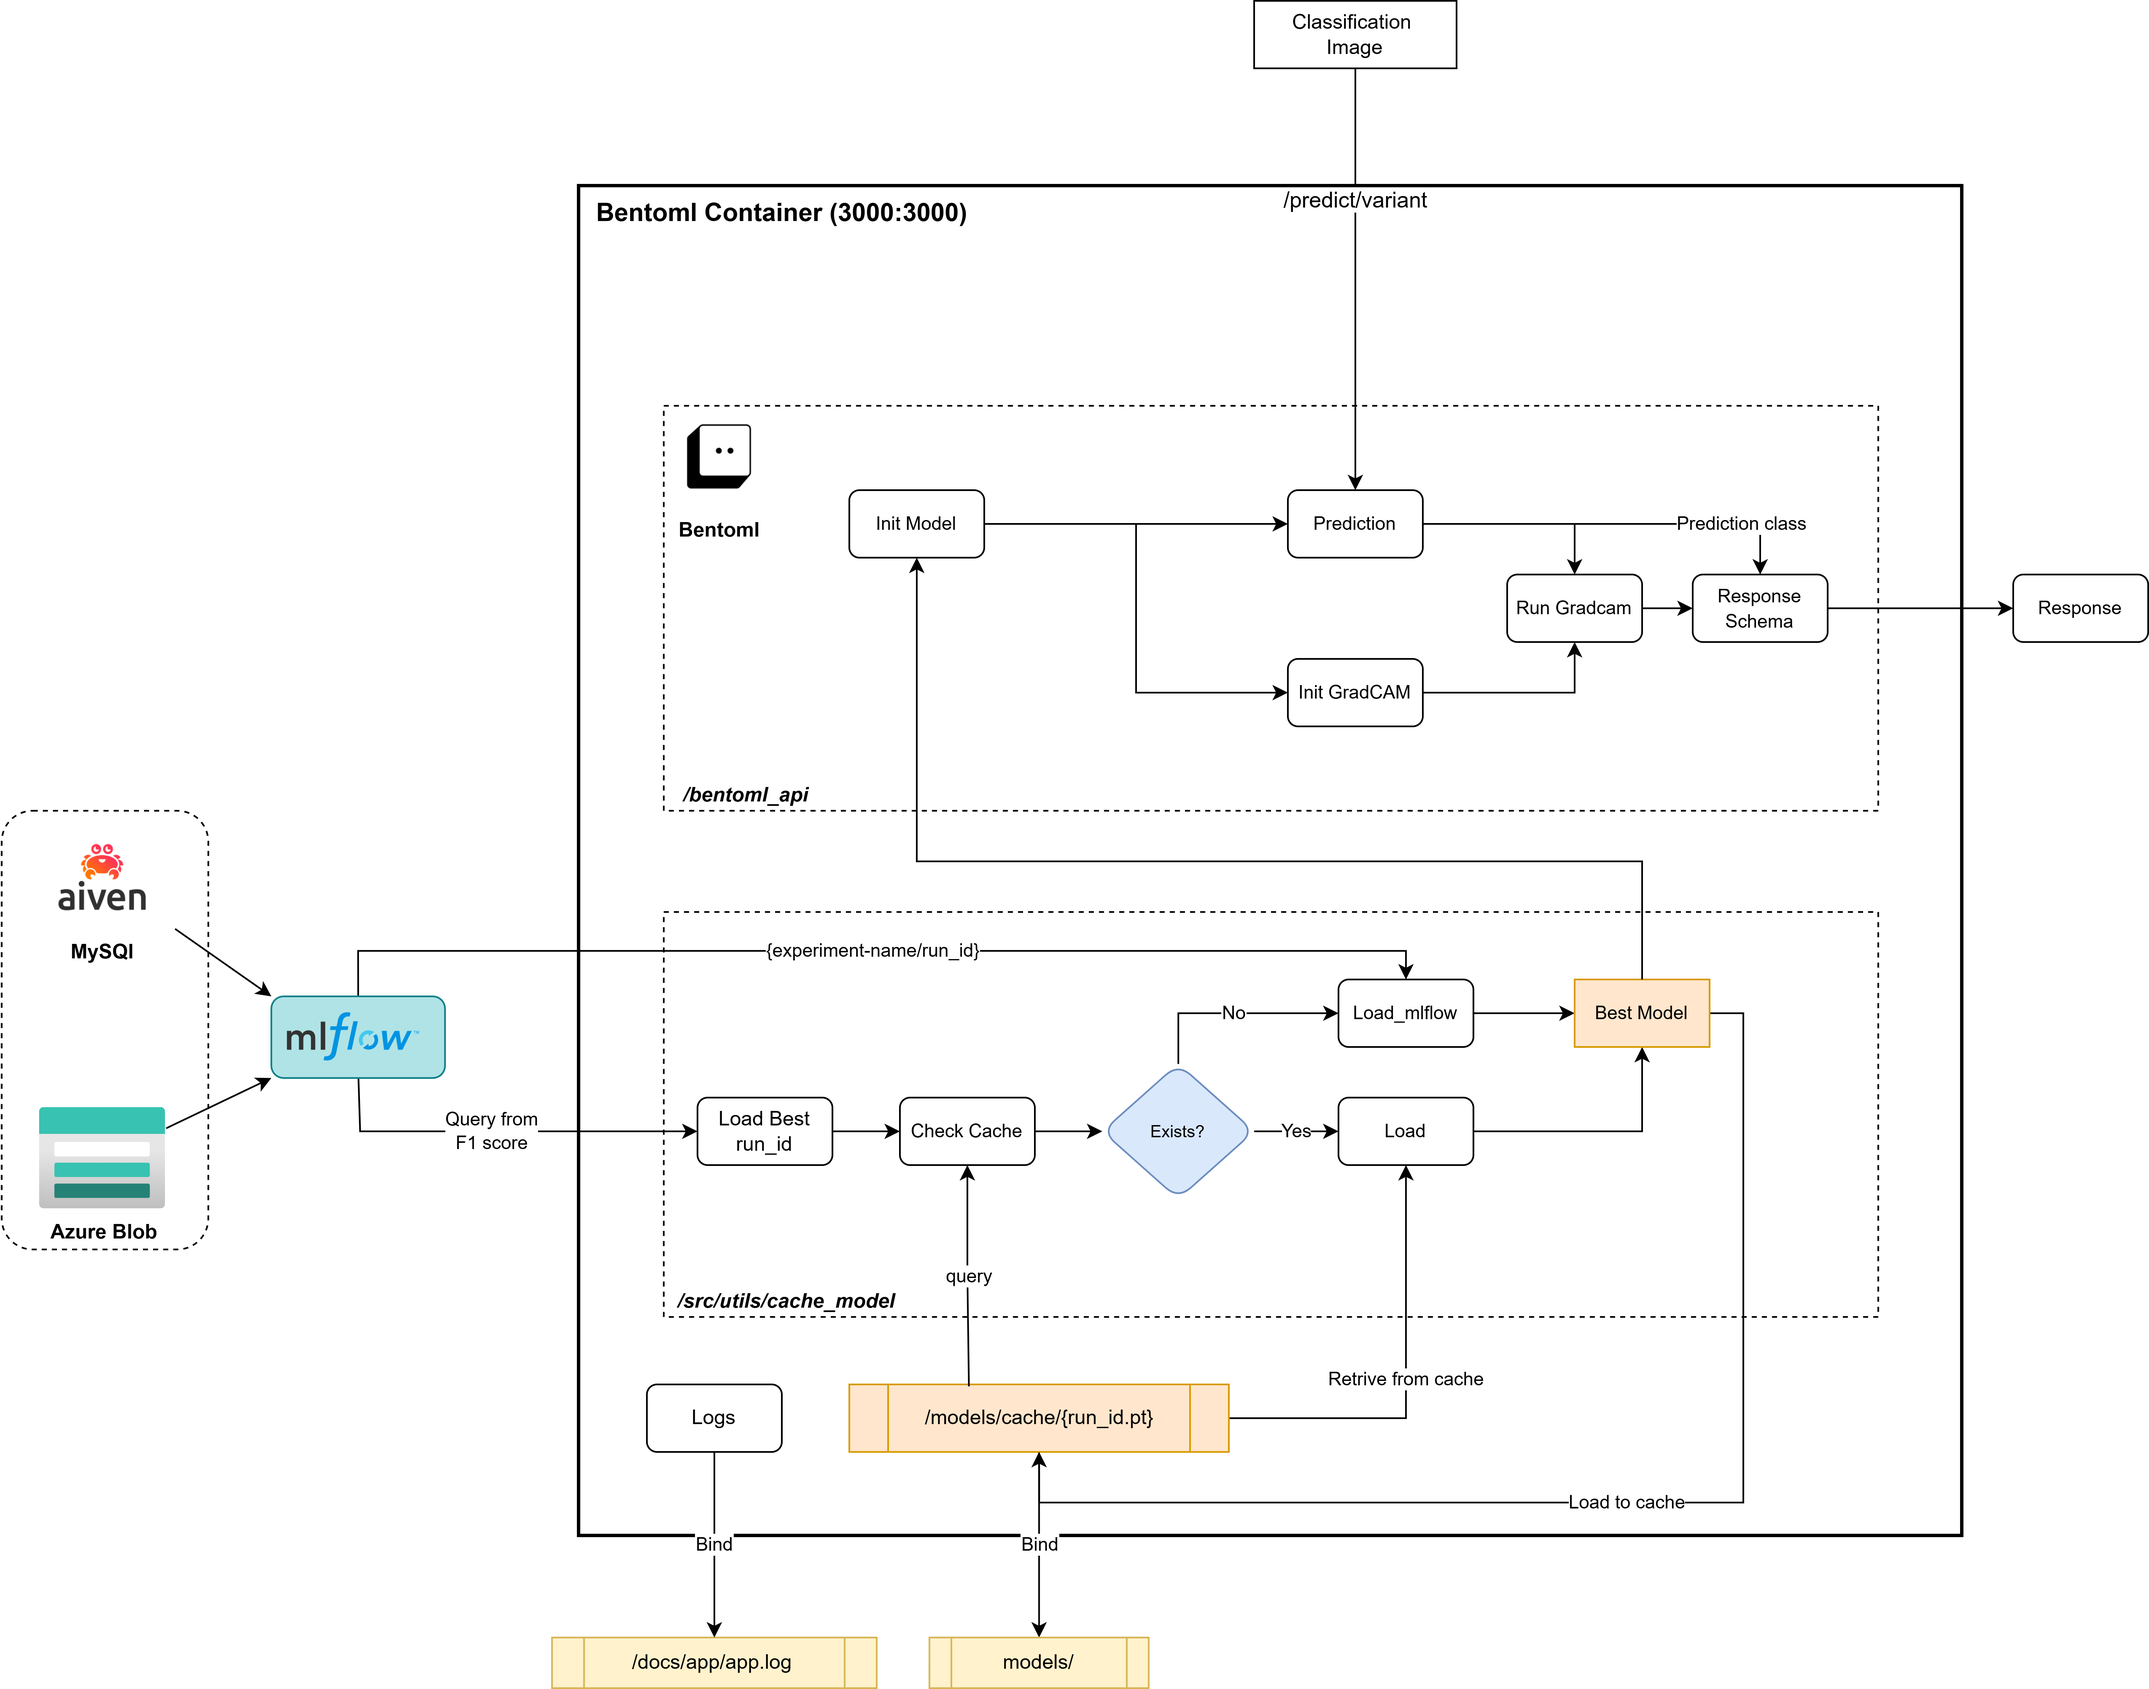
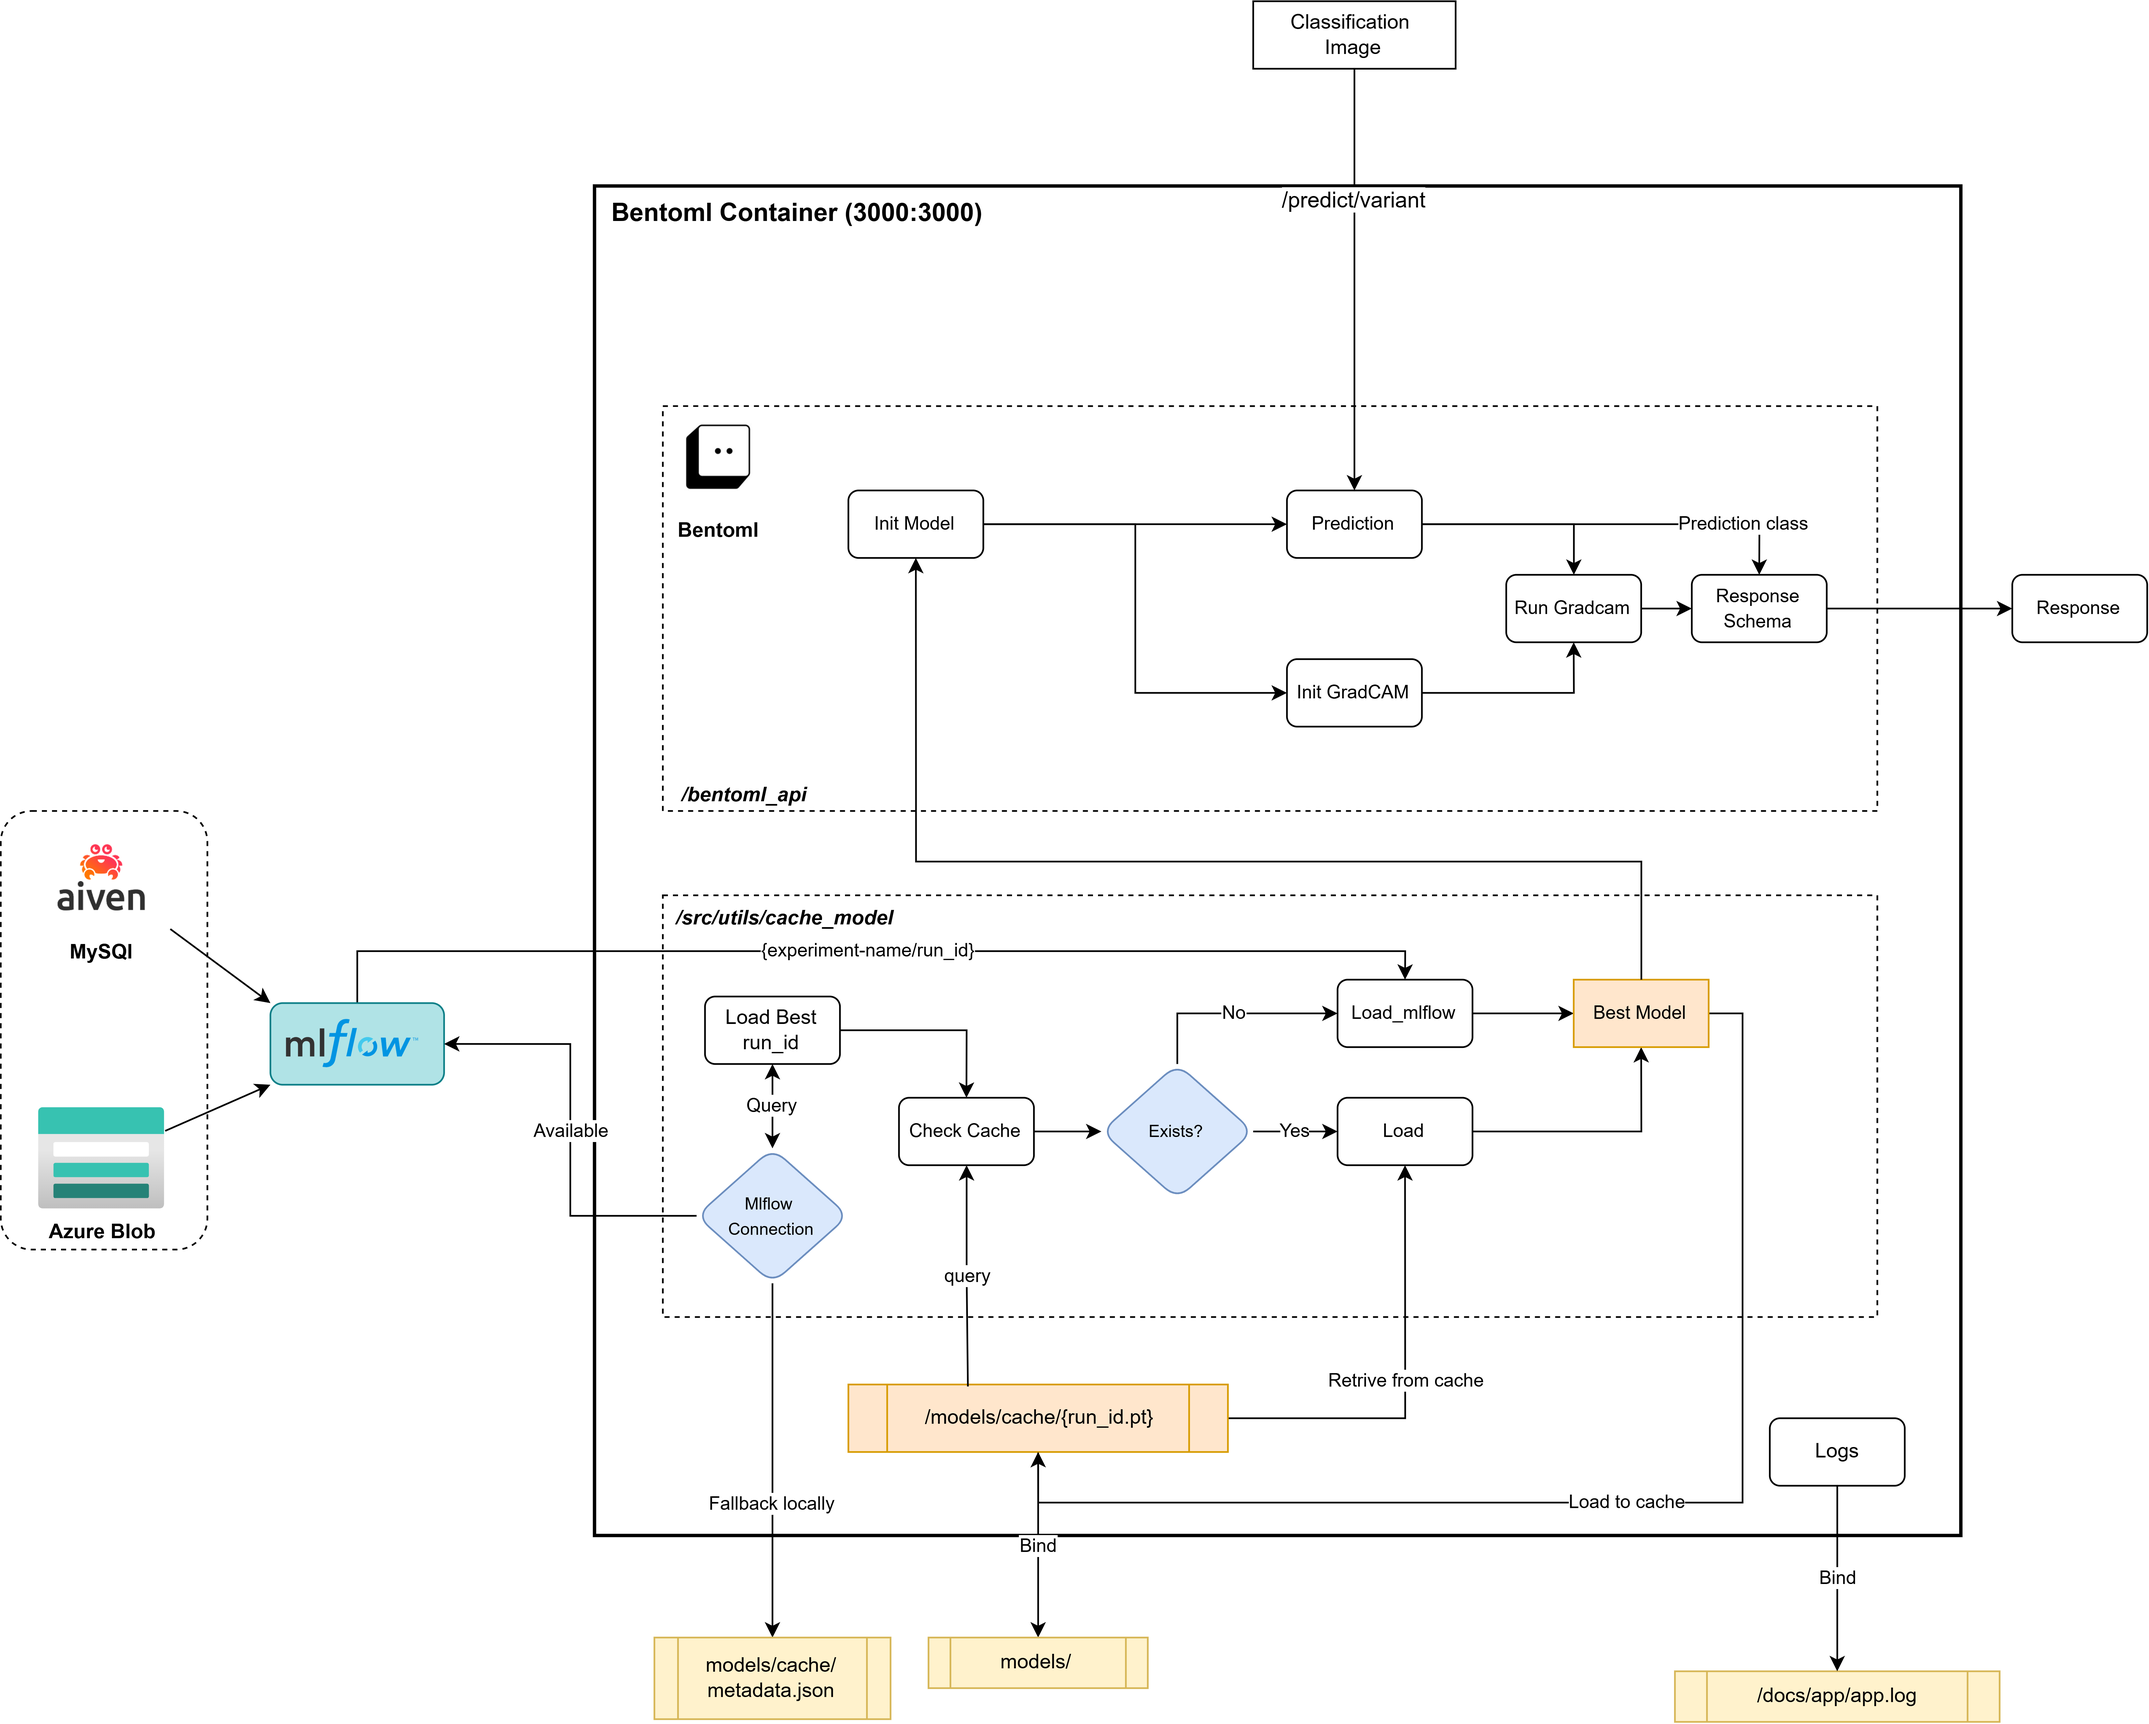
chores: cleanted lots of files and also updated bentoml arch.

diff --git a/src/utils/cached_models.py b/src/utils/cached_models.py
@@ -428,6 +428,8 @@ class ModelLoader:
         else: 
             hash_func = hashlib.sha1()
 
+        logger.info(f"Computing checksum for run '{run_id}' using {self.checksum_method}")
+
         #hash the saved model binary
         with open(self.local_cache_dir / f"{run_id}.pt", "rb") as f:
 
@@ -570,6 +572,10 @@ class ModelLoader:
             run_id: The MLflow run ID for which to check the cache.
         Returns:
             The loaded PyTorch model.
+
+        Raises:
+            Exception: If there is an error loading the model from the cache or MLflow.
+
         Example:
         ```python
             loader = ModelLoader(registered_model_name="my_model", local_cache=True,
@@ -805,6 +811,8 @@ class ModelLoader:
                                     top_n=5, metric="f1_macro")
             for r in runs:
                 print(r.info.run_id, r.data.metrics.get("f1_macro"))
+
+
         ```
 
         '''
@@ -826,13 +834,18 @@ class ModelLoader:
             logger.error(f"No model found with name '{model_name}'")
             return None
 
-        runs = self.client.search_runs(
-            experiment_ids=list(experiment_ids),
-            filter_string="attributes.status = 'FINISHED'",
-            order_by=[f"metrics.{metric} DESC"],
-            max_results=top_n,
-            )
-        logger.success(f"Found {len(runs)} finished runs for model '{model_name}' sorted by metric '{metric}'")
+        try:
+            runs = self.client.search_runs(
+                experiment_ids=list(experiment_ids),
+                filter_string="attributes.status = 'FINISHED'",
+                order_by=[f"metrics.{metric} DESC"],
+                max_results=top_n,
+                )
+            logger.success(f"Found {len(runs)} finished runs for model '{model_name}' sorted by metric '{metric}'")
+
+        except Exception as e:
+            logger.error(f"Error retrieving runs for model '{model_name}': {e}")
+            return None
 
         if not runs: 
             logger.error(f"No finished runs found for experiment '{model_name}'")

diff --git a/bentoml_api/service.py b/bentoml_api/service.py
@@ -11,11 +11,16 @@ import time
 from src.utils.cached_models import ModelLoader
 from src.utils.yaml_utils import load_yaml
 from src.utils.logging_config import intercept_stdlib_logging, setup_app_logging
-from bentoml_api.runners import run_default_model, run_dirichlet_model, run_hubble_model, build_gradcam
+from bentoml_api.runners import (run_default_model, run_dirichlet_model, 
+                                 run_hubble_model, build_gradcam)
+
 from src.cli.cli_bootstrap import load_context
 
-from bentoml_api.consts import TRANSFORM, DEVICE, DEFAULT_CLASS_NAMES,\
-default_model_name, hubble_model_name, dirichlet_model_name
+from bentoml_api.consts import (TRANSFORM, DEVICE, 
+                                DEFAULT_CLASS_NAMES,
+                                default_model_name, 
+                                hubble_model_name, 
+                                dirichlet_model_name)
 
 
 from loguru import logger

diff --git a/bentoml_api/runners.py b/bentoml_api/runners.py
@@ -11,8 +11,11 @@ import time
 from typing import Optional
 from bentoml_api.schemas import ClassificationResult
 
-from bentoml_api.consts import TRANSFORM, DEVICE, DEFAULT_CLASS_NAMES,\
-default_model_name, hubble_model_name, dirichlet_model_name
+from bentoml_api.consts import (TRANSFORM, DEVICE, 
+                                DEFAULT_CLASS_NAMES,
+                                default_model_name,
+                                hubble_model_name,
+                                dirichlet_model_name)
 
 root = Path(__file__).parent.parent
 

diff --git a/api/classify/routers.py b/api/classify/routers.py
@@ -5,7 +5,7 @@ from fastapi.concurrency import run_in_threadpool
 from fastapi import APIRouter, Depends
 from celery.result import AsyncResult
 
-from api.classify.models import ClassificationResponseRecord, ImageUpload,Prediction
+from api.classify.models import ClassificationResponseRecord, ImageUpload
 from api.tasks import celery_app, classify_image
 from schemas import ClassifyRequest,ClassificationResponse,VARIANTS
 

diff --git a/api/classify/schemas.py b/api/classify/schemas.py
@@ -1,8 +1,7 @@
 from pydantic import BaseModel
 from typing import Literal
 
-from datetime import datetime
-from typing import Optional
+
 from pydantic import BaseModel, ConfigDict
 
 class ClassifyRequest(BaseModel):

diff --git a/api/tasks.py b/api/tasks.py
@@ -1,5 +1,4 @@
 import base64
-from git import db
 from sqlalchemy.orm import Session
 from core.database import SessionLocal
 from celery import Celery

diff --git a/docs/docs/mlops/bentoml.md b/docs/docs/mlops/bentoml.md
@@ -41,6 +41,9 @@ I used service and runner structure that seperates the model loading and inferen
 
 ![Bentoml](../assets/bentoml.png)
 
+!!! Note
+    This is a simplified version of the moderloader module architecture. More detailed can be found in [Registry](docs\docs\mlops\registry.md) and [Model Loader](docs\docs\development\utils) documentation.
+
 ## Services
 
 ### Galaxy Classification Service

diff --git a/docs/docs/mlops/registry.md b/docs/docs/mlops/registry.md
@@ -1,6 +1,7 @@
 ## Mlflow Registry
 
-## Local Caching
+## Local Caching 
+
 
 ### Primary loading
 
